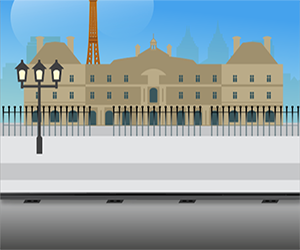
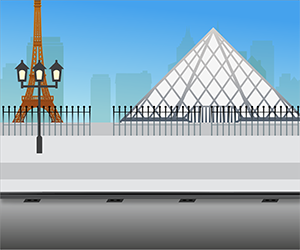
Eurostar amends

diff --git a/Eurostar/public/US/Ocean/300x600/js/banner.animation.js b/Eurostar/public/US/Ocean/300x600/js/banner.animation.js
@@ -11,7 +11,7 @@ Banner.prototype.start = function () {
   this.bannerHeight = this.banner.offsetHeight;
 
   // Image array for preloading
-  this.images = ['images/logo.png', 'images/blue_bkg.png', 'images/train.png', 'images/eurostar.png', 'images/scene1_bkg.png', 'images/scene1_clouds.png', 'images/scene1_bus.png', 'images/copy1.png', 'images/scene2_clouds.png', 'images/scene2_bkg.png',
+  this.images = ['images/logo.png', 'images/blue_bkg.png', 'images/white_bkg.png', 'images/train.png', 'images/eurostar.png', 'images/scene1_bkg.png', 'images/scene1_clouds.png', 'images/scene1_bus.png', 'images/copy1.png', 'images/scene2_clouds.png', 'images/scene2_bkg.png',
   //'images/scene2_plane.png',
   'images/scene2_boat.png', 'images/scene2_fish.png', 'images/copy2.png', 'images/scene3_bkg.png', 'images/scene3_clouds.png', 'images/scene3_balloon.png', 'images/scene3_bike.png', 'images/copy3.png', 'images/scene4_bkg.png', 'images/scene4_line1.png', 'images/scene4_line2.png', 'images/copy4.png', 'images/scene5_price.png', 'images/cta.png', 'images/copy5.png'];
 
@@ -35,6 +35,10 @@ Banner.prototype.createElements = function () {
   });
   this.blue_bkg = this.smartObject({
     backgroundImage: 'images/blue_bkg.png',
+    parent: this.banner
+  });
+  this.white_bkg = this.smartObject({
+    backgroundImage: 'images/white_bkg.png',
     parent: this.banner
   });
   this.train = this.smartObject({
@@ -141,7 +145,8 @@ Banner.prototype.createElements = function () {
 Banner.prototype.setup = function () {
   this.logo.center();
   this.logo.set({ zIndex: 16 });
-  this.blue_bkg.set({ left: -298, top: 0, zIndex: 15 });
+  this.blue_bkg.set({ left: 0, top: 0, zIndex: 15 });
+  this.white_bkg.set({ left: 150, top: 0, zIndex: 15 });
   this.train.set({ top: 412, left: -14000, zIndex: 14 });
   this.eurostar.set({ top: 550, left: 75, zIndex: 14 });
 
@@ -197,24 +202,24 @@ Banner.prototype.animate = function () {
     _this.timeline.gotoAndPlay('start');
   }
 
-  this.timeline = new TimelineMax({ repeat: 1 }).addLabel('start', 0).add([TweenMax.to(this.logo, 1, { left: 700, delay: 1 }), TweenMax.to(this.blue_bkg, 2, { left: 700, delay: 1 }), TweenMax.to(this.train, 9, { left: 10, delay: 1.5, ease: Power2.easeOut, y: 0 }),
+  this.timeline = new TimelineMax({ repeat: 1 }).addLabel('start', 0).add([TweenMax.to(this.logo, 1, { left: 500, delay: 1 }), TweenMax.to(this.blue_bkg, 2, { left: -150, delay: 1 }), TweenMax.to(this.white_bkg, 2, { left: 300, delay: 1 }), TweenMax.to(this.train, 9, { left: 10, delay: 1.5, ease: Power2.easeOut, y: 0 }),
 
   //SCENE 1 LONDON 
-  TweenMax.to(this.scene1_clouds, 8, { left: -50, delay: 1 }), TweenMax.to(this.scene1_bus, 6, { left: -150, delay: 1 }), TweenMax.to(this.copy1, 1, { autoAlpha: 1, delay: 1 }), TweenMax.to(this.copy1, 1, { autoAlpha: 0, delay: 4 }), TweenMax.to(this.scene1_bkg, 1, { autoAlpha: 0, delay: 4 }), TweenMax.to(this.scene1_clouds, 1, { autoAlpha: 0, delay: 4 }), TweenMax.to(this.scene1_bus, 1, { autoAlpha: 0, delay: 4 }),
+  TweenMax.to(this.scene1_clouds, 8, { left: -50, delay: 1 }), TweenMax.to(this.scene1_bus, 6, { left: -150, delay: 1 }), TweenMax.to(this.copy1, 1, { autoAlpha: 1, delay: 1 }), TweenMax.to(this.copy1, 0.5, { autoAlpha: 0, delay: 4 }), TweenMax.to(this.scene1_bkg, 1, { autoAlpha: 0, delay: 3 }), TweenMax.to(this.scene1_clouds, 1, { autoAlpha: 0, delay: 3 }), TweenMax.to(this.scene1_bus, 1, { autoAlpha: 0, delay: 3 }),
 
   //SCENE 2 OCEAN
-  TweenMax.to(this.scene2_clouds, 8, { left: -50, delay: 4.5 }),
+  TweenMax.to(this.scene2_clouds, 8, { left: -50, delay: 3.5 }),
   //TweenMax.to(this.scene2_plane, 7, { x:500, y:-100, top:0, delay: 5}),
-  TweenMax.to(this.scene2_boat, 4, { x: 50, delay: 4.5 }), TweenMax.to(this.scene2_fish, 8, { x: 20, delay: 4.5 }), TweenMax.to(this.copy2, 1, { autoAlpha: 1, delay: 5 }), TweenMax.to(this.copy2, 1, { autoAlpha: 0, delay: 7 }), TweenMax.to(this.scene2_bkg, 1, { autoAlpha: 0, delay: 7 }), TweenMax.to(this.scene2_boat, 1, { autoAlpha: 0, delay: 7 }), TweenMax.to(this.scene2_fish, 1, { autoAlpha: 0, delay: 7 }), TweenMax.to(this.scene2_clouds, 1, { autoAlpha: 0, delay: 7 }),
+  TweenMax.to(this.scene2_boat, 4, { x: 50, delay: 3.5 }), TweenMax.to(this.scene2_fish, 8, { x: 20, delay: 3.5 }), TweenMax.to(this.copy2, 1, { autoAlpha: 1, delay: 3.5 }), TweenMax.to(this.copy2, 1, { autoAlpha: 0, delay: 5 }), TweenMax.to(this.scene2_bkg, 1, { autoAlpha: 0, delay: 5 }), TweenMax.to(this.scene2_boat, 1, { autoAlpha: 0, delay: 5 }), TweenMax.to(this.scene2_fish, 1, { autoAlpha: 0, delay: 5 }), TweenMax.to(this.scene2_clouds, 1, { autoAlpha: 0, delay: 5 }),
   //TweenMax.to(this.scene2_plane, 1, {autoAlpha: 0, delay: 7}),
 
   //SCENE 3 PARIS
-  TweenMax.to(this.scene3_clouds, 10, { left: -50, delay: 7 }), TweenMax.to(this.scene3_balloon, 9, { y: -100, delay: 7 }), TweenMax.to(this.scene3_bike, 7, { x: -150, delay: 7 }), TweenMax.to(this.scene3_bkg, 1, { autoAlpha: 0, delay: 10 }), TweenMax.to(this.scene3_balloon, 1, { autoAlpha: 0, delay: 10 }), TweenMax.to(this.copy3, 1, { autoAlpha: 0, delay: 10 }), TweenMax.to(this.scene3_clouds, 1, { autoAlpha: 0, delay: 10 }), TweenMax.to(this.train, 0.5, { autoAlpha: 0, delay: 10 }),
+  TweenMax.to(this.scene3_clouds, 10, { left: -50, delay: 5 }), TweenMax.to(this.scene3_balloon, 9, { y: -100, delay: 5 }), TweenMax.to(this.scene3_bike, 7, { x: -150, delay: 5 }), TweenMax.to(this.scene3_bkg, 1, { autoAlpha: 0, delay: 8 }), TweenMax.to(this.scene3_balloon, 1, { autoAlpha: 0, delay: 8 }), TweenMax.to(this.copy3, 1, { autoAlpha: 0, delay: 8 }), TweenMax.to(this.scene3_clouds, 1, { autoAlpha: 0, delay: 8 }), TweenMax.to(this.train, 0.5, { autoAlpha: 0, delay: 8 }),
 
   //SCENE 4 LONDON TO PARIS
-  TweenMax.to(this.scene4_line1, 1, { y: -35, delay: 10.5 }), TweenMax.to(this.scene4_line2, 1, { y: 35, delay: 10.5 }), TweenMax.to(this.copy4, 1, { autoAlpha: 1, scale: 1, delay: 11.5 }), TweenMax.to(this.scene4_line1, 1, { autoAlpha: 0, delay: 14 }), TweenMax.to(this.scene4_line2, 1, { autoAlpha: 0, delay: 14 }), TweenMax.to(this.copy4, 1, { autoAlpha: 0, delay: 14 }),
+  TweenMax.to(this.scene4_line1, 1, { y: -35, delay: 8.5 }), TweenMax.to(this.scene4_line2, 1, { y: 35, delay: 8.5 }), TweenMax.to(this.copy4, 1, { autoAlpha: 1, scale: 1, delay: 9 }), TweenMax.to(this.scene4_line1, 1, { autoAlpha: 0, delay: 13 }), TweenMax.to(this.scene4_line2, 1, { autoAlpha: 0, delay: 13 }), TweenMax.to(this.copy4, 1, { autoAlpha: 0, delay: 13 }),
 
   //SCENE 5 CTA & PRICE
-  TweenMax.to(this.scene5_price, 1, { autoAlpha: 1, delay: 14.5 }), TweenMax.to(this.copy5, 1, { autoAlpha: 1, delay: 14.5 }), TweenMax.to(this.cta, 1, { autoAlpha: 1, scale: 1, delay: 14.5 }), TweenMax.to(this.cta, 0.5, { scale: 1.05, repeat: 5, yoyo: true, delay: 15 })]);
+  TweenMax.to(this.scene5_price, 1, { autoAlpha: 1, delay: 13.5 }), TweenMax.to(this.copy5, 1, { autoAlpha: 1, delay: 13.5 }), TweenMax.to(this.cta, 1, { autoAlpha: 1, scale: 1, delay: 13.5 }), TweenMax.to(this.cta, 0.5, { scale: 1.05, repeat: 5, yoyo: true, delay: 14 })]);
   console.log(this.timeline.totalDuration());
 };

diff --git a/Eurostar/public/US/Guard/300x600/js/banner.animation.js b/Eurostar/public/US/Guard/300x600/js/banner.animation.js
@@ -11,7 +11,7 @@ Banner.prototype.start = function () {
   this.bannerHeight = this.banner.offsetHeight;
 
   // Image array for preloading
-  this.images = ['images/logo.png', 'images/blue_bkg.png', 'images/train.png', 'images/eurostar.png', 'images/scene1_bkg.png', 'images/scene1_clouds.png', 'images/scene1_hut.png', 'images/scene1_man.png', 'images/copy1.png', 'images/scene2_man.png', 'images/scene2_bkg.png', 'images/scene2_clothes1.png', 'images/scene2_clothes2.png', 'images/scene2_clothes3.png', 'images/copy2.png', 'images/copy3.png', 'images/scene4_bkg.png', 'images/scene4_line1.png', 'images/scene4_line2.png', 'images/copy4.png', 'images/scene5_price.png', 'images/cta.png', 'images/copy5.png'];
+  this.images = ['images/logo.png', 'images/blue_bkg.png', 'images/white_bkg.png', 'images/train.png', 'images/eurostar.png', 'images/scene1_bkg.png', 'images/scene1_clouds.png', 'images/scene1_hut.png', 'images/scene1_man.png', 'images/copy1.png', 'images/scene2_man.png', 'images/scene2_bkg.png', 'images/scene2_clothes1.png', 'images/scene2_clothes2.png', 'images/scene2_clothes3.png', 'images/copy2.png', 'images/copy3.png', 'images/scene4_bkg.png', 'images/scene4_line1.png', 'images/scene4_line2.png', 'images/copy4.png', 'images/scene5_price.png', 'images/cta.png', 'images/copy5.png'];
 
   var _this = this;
   this.preloadImages(this.images, function () {
@@ -33,6 +33,10 @@ Banner.prototype.createElements = function () {
   });
   this.blue_bkg = this.smartObject({
     backgroundImage: 'images/blue_bkg.png',
+    parent: this.banner
+  });
+  this.white_bkg = this.smartObject({
+    backgroundImage: 'images/white_bkg.png',
     parent: this.banner
   });
   this.train = this.smartObject({
@@ -135,7 +139,8 @@ Banner.prototype.createElements = function () {
 Banner.prototype.setup = function () {
   this.logo.center();
   this.logo.set({ zIndex: 15 });
-  this.blue_bkg.set({ left: -298, top: 0, zIndex: 14 });
+  this.blue_bkg.set({ left: 0, top: 0, zIndex: 14 });
+  this.white_bkg.set({ left: 150, top: 0, zIndex: 14 });
   this.train.set({ top: 335, left: -14000, zIndex: 14 });
   this.eurostar.set({ top: 540, left: 75, zIndex: 13 });
 
@@ -185,7 +190,7 @@ Banner.prototype.animate = function () {
     _this.timeline.gotoAndPlay('start');
   }
 
-  this.timeline = new TimelineMax({ repeat: 1 }).addLabel('start', 0).add([TweenMax.to(this.logo, 1, { left: 700, delay: 0.8 }), TweenMax.to(this.blue_bkg, 2, { left: 700, delay: 0.8 }),
+  this.timeline = new TimelineMax({ repeat: 1 }).addLabel('start', 0).add([TweenMax.to(this.logo, 2, { left: 500, delay: 1 }), TweenMax.to(this.blue_bkg, 2, { left: -150, delay: 1 }), TweenMax.to(this.white_bkg, 2, { left: 300, delay: 1 }),
 
   //SCENE 1 ZOOMED IN LONDON
   TweenMax.to(this.scene1_bkg, 1.5, { scale: 1, y: 50, x: -40, delay: 1 }), TweenMax.to(this.scene1_clouds, 1.5, { scale: 1, y: 100, x: -30, delay: 1 }), TweenMax.to(this.scene1_hut, 1.5, { scale: 1, y: 30, x: -30, delay: 1 }), TweenMax.to(this.scene1_man, 1.5, { scale: 1, y: 25, x: -30, delay: 1 }),
@@ -197,9 +202,9 @@ Banner.prototype.animate = function () {
   TweenMax.to(this.scene1_hut, 2, { y: -50, x: 300, rotation: 45, transformOrigin: "left 50%", delay: 5 }), TweenMax.to(this.scene2_clothes1, 0.1, { autoAlpha: 1, delay: 5 }), TweenMax.to(this.scene2_clothes1, 2, { y: -100, x: 250, rotation: 90, transformOrigin: "left 50%", delay: 5.5 }), TweenMax.to(this.scene2_clothes2, 0.1, { autoAlpha: 1, delay: 5 }), TweenMax.to(this.scene2_clothes2, 2, { y: -100, x: 250, rotation: 140, transformOrigin: "left 50%", delay: 5.8 }), TweenMax.to(this.scene2_clothes3, 0.1, { autoAlpha: 1, delay: 5 }), TweenMax.to(this.scene2_clothes3, 2, { y: -100, x: 250, rotation: 180, transformOrigin: "left 50%", delay: 6.1 }), TweenMax.to(this.scene2_bkg, 0.5, { autoAlpha: 0, delay: 8 }), TweenMax.to(this.scene2_man, 0.5, { autoAlpha: 0, delay: 8 }), TweenMax.to(this.copy1, 0.5, { autoAlpha: 0, delay: 8 }), TweenMax.to(this.copy2, 0.5, { autoAlpha: 0, delay: 8 }), TweenMax.to(this.copy3, 0.5, { autoAlpha: 0, delay: 8 }),
 
   //SCENE 4 LONDON TO PARIS
-  TweenMax.to(this.scene4_line1, 1, { y: -35, delay: 8.5 }), TweenMax.to(this.scene4_line2, 1, { y: 35, delay: 8.5 }), TweenMax.to(this.copy4, 1, { autoAlpha: 1, scale: 1, delay: 9 }), TweenMax.to(this.scene4_line1, 1, { autoAlpha: 0, delay: 12 }), TweenMax.to(this.scene4_line2, 1, { autoAlpha: 0, delay: 12 }), TweenMax.to(this.copy4, 1, { autoAlpha: 0, delay: 12 }),
+  TweenMax.to(this.scene4_line1, 1, { y: -35, delay: 8.5 }), TweenMax.to(this.scene4_line2, 1, { y: 35, delay: 8.5 }), TweenMax.to(this.copy4, 1, { autoAlpha: 1, scale: 1, delay: 9 }), TweenMax.to(this.scene4_line1, 1, { autoAlpha: 0, delay: 13 }), TweenMax.to(this.scene4_line2, 1, { autoAlpha: 0, delay: 13 }), TweenMax.to(this.copy4, 1, { autoAlpha: 0, delay: 13 }),
 
   //SCENE 5 CTA & PRICE
-  TweenMax.to(this.scene5_price, 1, { autoAlpha: 1, delay: 12.5 }), TweenMax.to(this.copy5, 1, { autoAlpha: 1, delay: 12.5 }), TweenMax.to(this.cta, 1, { autoAlpha: 1, scale: 1, delay: 12.5 }), TweenMax.to(this.cta, 0.5, { scale: 1.05, repeat: 5, yoyo: true, delay: 13 })]);
+  TweenMax.to(this.scene5_price, 1, { autoAlpha: 1, delay: 13.5 }), TweenMax.to(this.copy5, 1, { autoAlpha: 1, delay: 13.5 }), TweenMax.to(this.cta, 1, { autoAlpha: 1, scale: 1, delay: 13.5 }), TweenMax.to(this.cta, 0.5, { scale: 1.05, repeat: 5, yoyo: true, delay: 14 })]);
   console.log(this.timeline.totalDuration());
 };

diff --git a/Eurostar/public/US/Guard/300x250/js/banner.animation.js b/Eurostar/public/US/Guard/300x250/js/banner.animation.js
@@ -150,8 +150,8 @@ Banner.prototype.setup = function () {
 
   //SCENE 2 PARIS
   this.scene2_bkg.set({ zIndex: 10 });
-  this.scene2_man.set({ top: 15, left: 180, zIndex: 11 });
-  this.scene2_horse.set({ top: 40, left: 250, zIndex: 11 });
+  this.scene2_man.set({ top: 45, left: 80, zIndex: 11 });
+  //this.scene2_horse.set({top:40, left:250, zIndex:11})
   this.scene2_clothes1.set({ autoAlpha: 0, top: 100, left: 90, zIndex: 12 });
   this.scene2_clothes2.set({ autoAlpha: 0, top: 100, left: 90, zIndex: 12 });
   this.scene2_clothes3.set({ autoAlpha: 0, top: 100, left: 90, zIndex: 12 });
@@ -189,15 +189,17 @@ Banner.prototype.animate = function () {
   this.timeline = new TimelineMax({ repeat: 1 }).addLabel('start', 0).add([TweenMax.to(this.logo, 1, { left: 700, delay: 1 }), TweenMax.to(this.blue_bkg, 2, { left: 700, delay: 1 }),
 
   //SCENE 2 ZOOMED OUT LONDON
-  TweenMax.to(this.train, 7, { left: 330, delay: 3 }), TweenMax.to(this.scene1_clouds, 11, { x: -200, delay: 3 }), TweenMax.to(this.copy1, 1, { autoAlpha: 1, delay: 3 }), TweenMax.to(this.copy1, 1, { autoAlpha: 0, delay: 5 }), TweenMax.to(this.copy2, 1, { autoAlpha: 1, delay: 6 }), TweenMax.to(this.copy2, 1, { autoAlpha: 0, delay: 8 }), TweenMax.to(this.scene1_bkg, 1, { autoAlpha: 0, delay: 8 }), TweenMax.to(this.scene1_clouds, 1, { autoAlpha: 0, delay: 8 }), TweenMax.to(this.scene1_man, 0.1, { autoAlpha: 0, delay: 6.5 }),
+  TweenMax.to(this.train, 7, { left: 330, delay: 2 }), TweenMax.to(this.scene1_clouds, 11, { x: -200, delay: 2 }), TweenMax.to(this.copy1, 1, { autoAlpha: 1, delay: 2 }), TweenMax.to(this.copy1, 1, { autoAlpha: 0, delay: 4 }), TweenMax.to(this.copy2, 1, { autoAlpha: 1, delay: 5 }), TweenMax.to(this.copy2, 1, { autoAlpha: 0, delay: 7 }), TweenMax.to(this.scene1_bkg, 1, { autoAlpha: 0, delay: 7 }), TweenMax.to(this.scene1_clouds, 1, { autoAlpha: 0, delay: 7 }), TweenMax.to(this.scene1_man, 0.1, { autoAlpha: 0, delay: 5.5 }),
 
   //SCENE 3 PARIS
-  TweenMax.to(this.scene1_hut, 2, { y: -50, x: 300, rotation: 45, transformOrigin: "left 50%", delay: 7 }), TweenMax.to(this.scene2_clothes1, 0.1, { autoAlpha: 1, delay: 6 }), TweenMax.to(this.scene2_clothes1, 2, { y: -200, x: 280, rotation: 90, transformOrigin: "left 50%", delay: 6.5 }), TweenMax.to(this.scene2_clothes2, 0.1, { autoAlpha: 1, delay: 6 }), TweenMax.to(this.scene2_clothes2, 2, { y: -200, x: 280, rotation: 140, transformOrigin: "left 50%", delay: 7 }), TweenMax.to(this.scene2_clothes3, 0.1, { autoAlpha: 1, delay: 6 }), TweenMax.to(this.scene2_clothes3, 2, { y: -200, x: 280, rotation: 180, transformOrigin: "left 50%", delay: 7.5 }), TweenMax.to(this.scene2_bkg, 0.5, { autoAlpha: 0, delay: 12 }), TweenMax.to(this.scene2_man, 0.5, { autoAlpha: 0, delay: 12 }), TweenMax.to(this.scene2_horse, 0.5, { autoAlpha: 0, delay: 12 }), TweenMax.to(this.copy3, 1, { autoAlpha: 1, delay: 9 }), TweenMax.to(this.copy3, 0.5, { autoAlpha: 0, delay: 12 }),
+  TweenMax.to(this.scene1_hut, 2, { y: -50, x: 300, rotation: 45, transformOrigin: "left 50%", delay: 7 }), TweenMax.to(this.scene2_clothes1, 0.1, { autoAlpha: 1, delay: 6 }), TweenMax.to(this.scene2_clothes1, 2, { y: -200, x: 280, rotation: 90, transformOrigin: "left 50%", delay: 6.5 }), TweenMax.to(this.scene2_clothes2, 0.1, { autoAlpha: 1, delay: 6 }), TweenMax.to(this.scene2_clothes2, 2, { y: -200, x: 280, rotation: 140, transformOrigin: "left 50%", delay: 7 }), TweenMax.to(this.scene2_clothes3, 0.1, { autoAlpha: 1, delay: 6 }), TweenMax.to(this.scene2_clothes3, 2, { y: -200, x: 280, rotation: 180, transformOrigin: "left 50%", delay: 7.5 }), TweenMax.to(this.scene2_bkg, 0.5, { autoAlpha: 0, delay: 9.5 }), TweenMax.to(this.scene2_man, 0.5, { autoAlpha: 0, delay: 9.5 }),
+  //TweenMax.to(this.scene2_horse, 0.5, {autoAlpha:0, delay: 12}),
+  TweenMax.to(this.copy3, 1, { autoAlpha: 1, delay: 7.5 }), TweenMax.to(this.copy3, 0.5, { autoAlpha: 0, delay: 9.5 }),
 
   //SCENE 4 LONDON TO PARIS
-  TweenMax.to(this.scene4_line1, 1, { y: -35, delay: 12.5 }), TweenMax.to(this.scene4_line2, 1, { y: 35, delay: 12.5 }), TweenMax.to(this.copy4, 1, { autoAlpha: 1, scale: 1, delay: 13.5 }), TweenMax.to(this.scene4_line1, 1, { autoAlpha: 0, delay: 16 }), TweenMax.to(this.scene4_line2, 1, { autoAlpha: 0, delay: 16 }), TweenMax.to(this.copy4, 1, { autoAlpha: 0, delay: 16 }),
+  TweenMax.to(this.scene4_line1, 1, { y: -35, delay: 10 }), TweenMax.to(this.scene4_line2, 1, { y: 35, delay: 10 }), TweenMax.to(this.copy4, 1, { autoAlpha: 1, scale: 1, delay: 11 }), TweenMax.to(this.scene4_line1, 1, { autoAlpha: 0, delay: 13 }), TweenMax.to(this.scene4_line2, 1, { autoAlpha: 0, delay: 13 }), TweenMax.to(this.copy4, 1, { autoAlpha: 0, delay: 13 }),
 
   //SCENE 5 CTA & PRICE
-  TweenMax.to(this.scene5_price, 1, { autoAlpha: 1, delay: 16.5 }), TweenMax.to(this.copy5, 1, { autoAlpha: 1, delay: 16.5 }), TweenMax.to(this.cta, 1, { autoAlpha: 1, scale: 1, delay: 16.5 }), TweenMax.to(this.cta, 0.5, { scale: 1.05, repeat: 5, yoyo: true, delay: 17 })]);
+  TweenMax.to(this.scene5_price, 1, { autoAlpha: 1, delay: 13.5 }), TweenMax.to(this.copy5, 1, { autoAlpha: 1, delay: 13.5 }), TweenMax.to(this.cta, 1, { autoAlpha: 1, scale: 1, delay: 13.5 }), TweenMax.to(this.cta, 0.5, { scale: 1.05, repeat: 5, yoyo: true, delay: 14 })]);
   console.log(this.timeline.totalDuration());
 };
